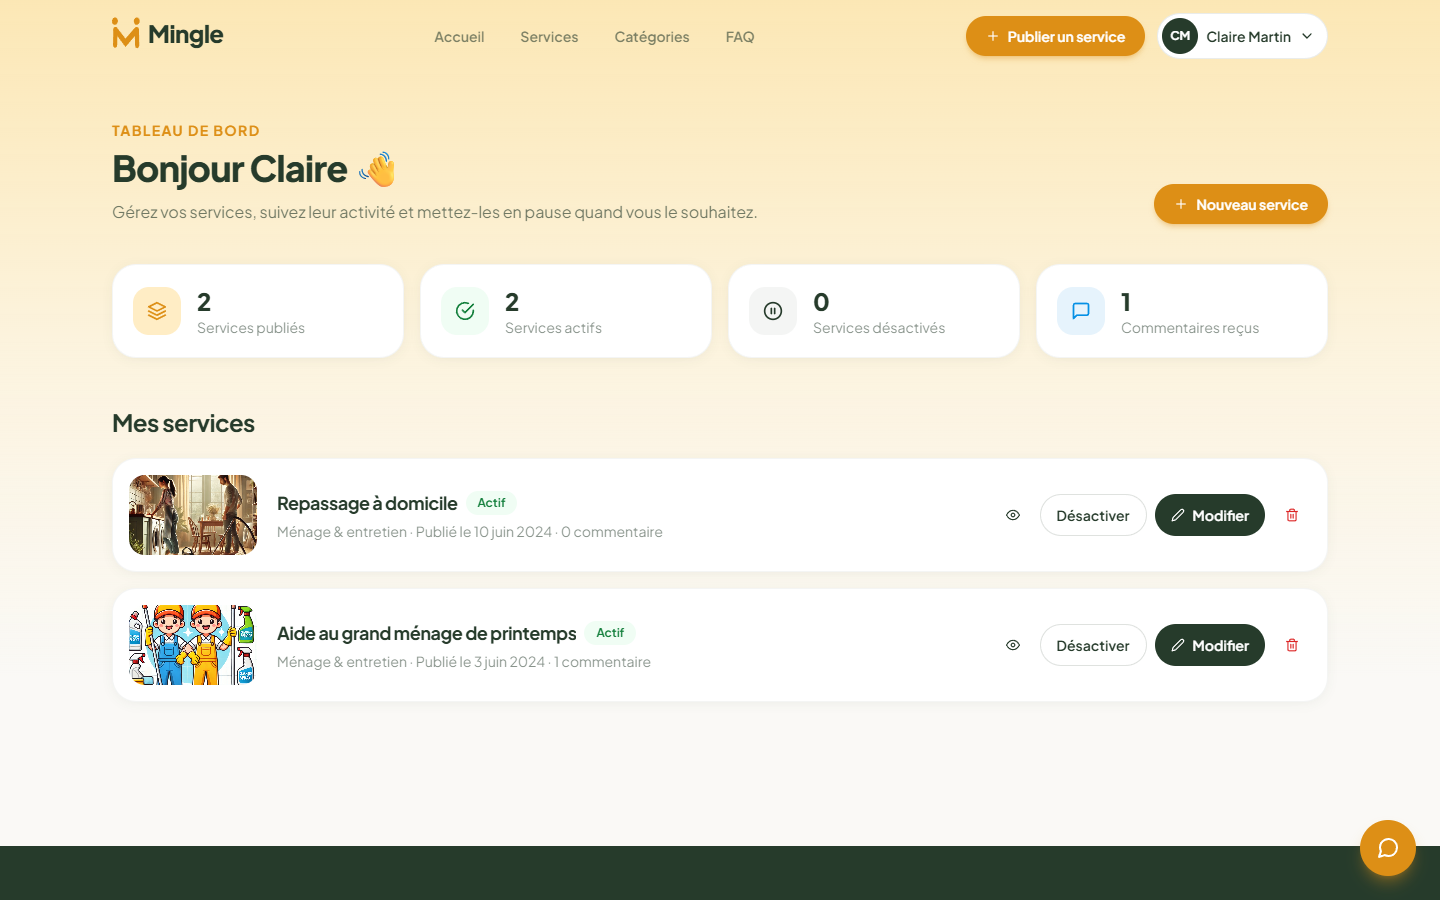
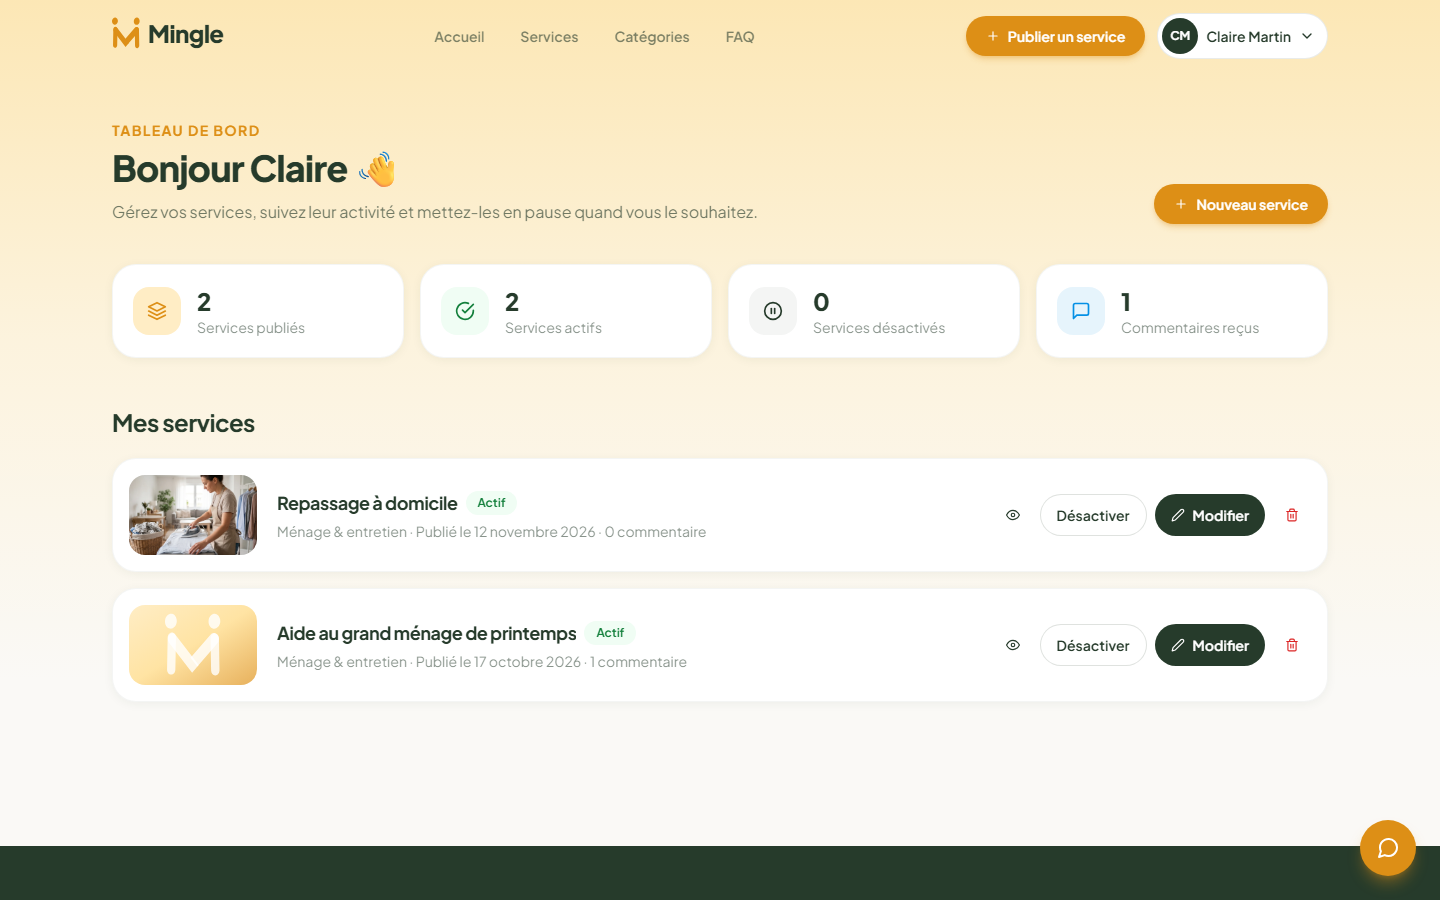
feat: update

diff --git a/frontend/src/services/demo/seed.js b/frontend/src/services/demo/seed.js
@@ -107,7 +107,7 @@ export default function createSeed() {
     category_id: categoryId,
     status,
     created_at: createdAt,
-    illustration: `/uploads/services/${image}`,
+    illustration: image ? `/uploads/services/${image}` : null,
   });
 
   const services = [
@@ -119,7 +119,7 @@ export default function createSeed() {
       1,
       true,
       ago(30, 4),
-      "menage-1.webp"
+      null
     ),
     service(
       2,
@@ -149,7 +149,7 @@ export default function createSeed() {
       2,
       false,
       ago(6, 1),
-      "aines-2.webp"
+      null
     ),
     service(
       5,

diff --git a/frontend/src/services/demo/demoAdapter.js b/frontend/src/services/demo/demoAdapter.js
@@ -4,7 +4,7 @@
 import { AxiosError } from "axios";
 import createSeed from "./seed";
 
-const STORAGE_KEY = "mingle_demo_db_v1";
+const STORAGE_KEY = "mingle_demo_db_v2";
 const TOKEN_TTL = 7 * 24 * 3600;
 
 /* ------------------------------------------------------------------ stockage */
